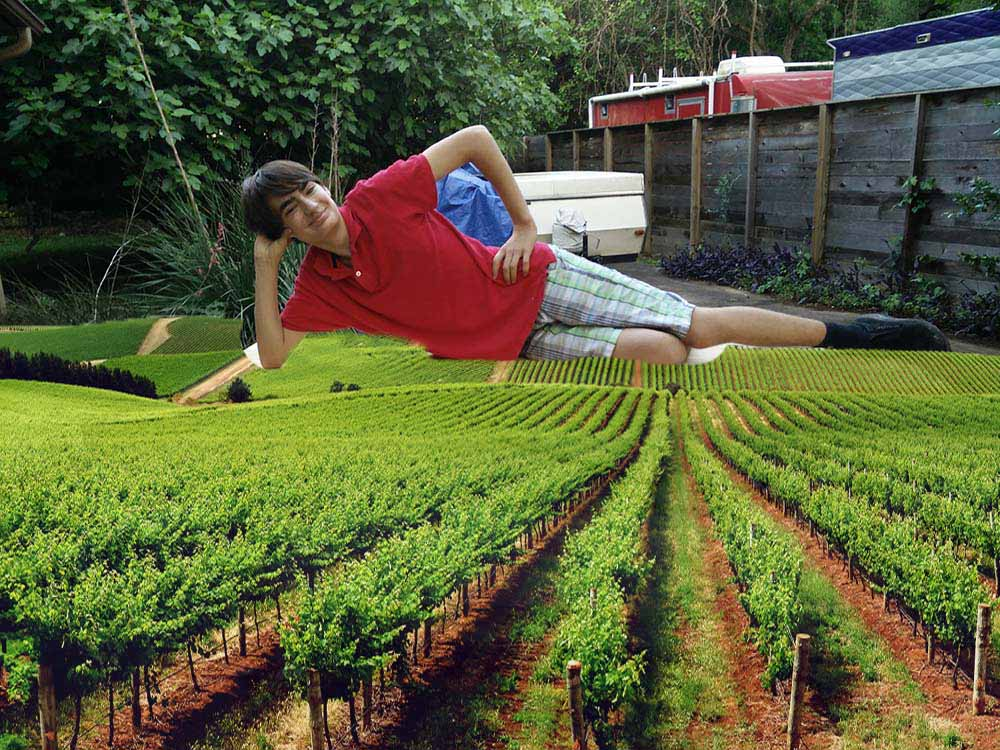
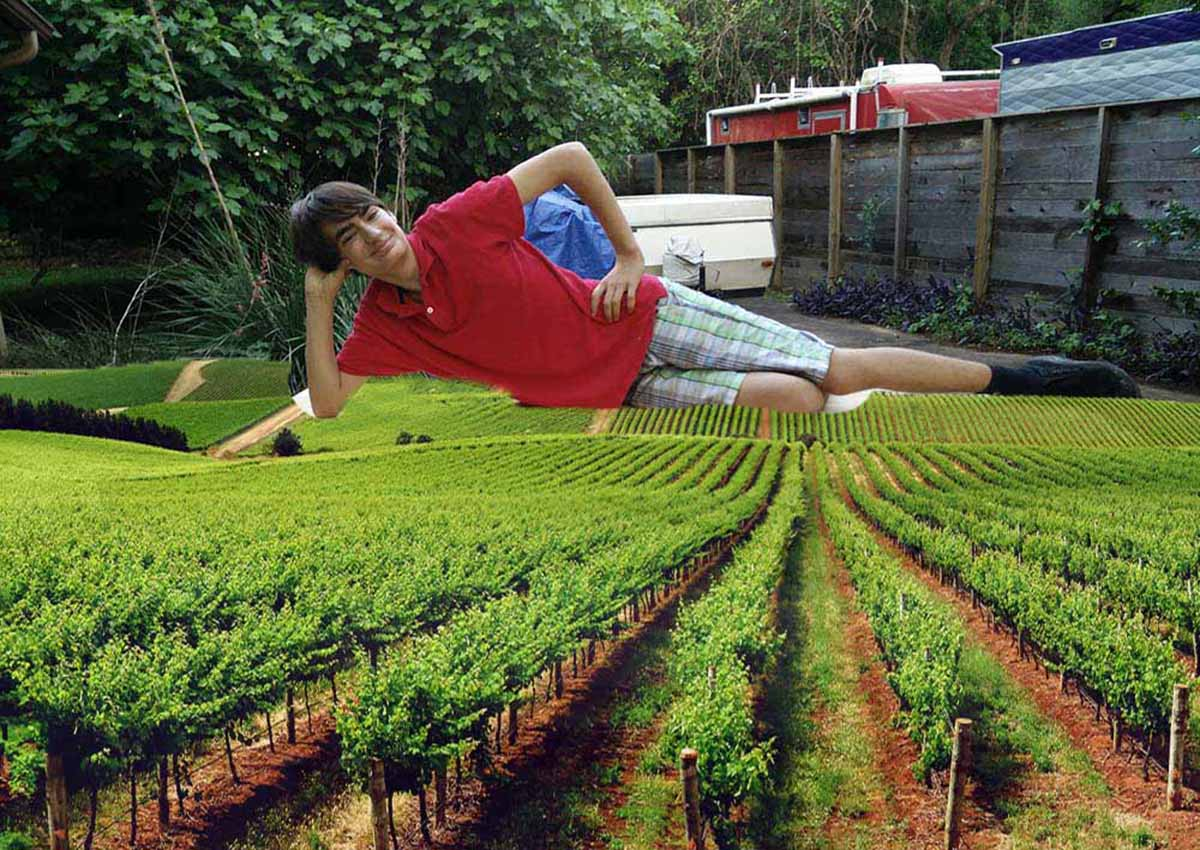
Structure Complete

diff --git a/index.html b/index.html
@@ -1,73 +1,69 @@
 <!DOCTYPE html>
 <html lang="en">
-<head>
-  <meta http-equiv="Content-Type" content="text/html; charset=UTF-8"/>
-  <meta name="viewport" content="width=device-width, initial-scale=1, maximum-scale=1.0, user-scalable=no"/>
-  <title>WW RoboWarriors | Home</title>
-  <link href="https://fonts.googleapis.com/icon?family=Material+Icons" rel="stylesheet">
-  <link href="css/style.css" type="text/css" rel="stylesheet" media="screen,projection"/>
-  <link href="css/scroll.css" type="text/css" rel="stylesheet" media="screen,projection"/>
-  <script src="https://code.jquery.com/jquery-2.1.1.min.js"></script>
-  <script src="js/init.js"></script>
- <link rel="stylesheet" href="https://cdnjs.cloudflare.com/ajax/libs/materialize/0.97.7/css/materialize.min.css">
- <script src="https://cdnjs.cloudflare.com/ajax/libs/materialize/0.97.7/js/materialize.min.js"></script>
-</head>
+  <head>
+    <meta http-equiv="Content-Type" content="text/html; charset=UTF-8"/>
+    <meta name="viewport" content="width=device-width, initial-scale=1, maximum-scale=1.0, user-scalable=no"/>
+    <title>WW RoboWarriors | Home</title>
+    <link href="https://fonts.googleapis.com/icon?family=Material+Icons" rel="stylesheet">
+    <link href="css/style.css" type="text/css" rel="stylesheet" media="screen,projection"/>
+    <link href="css/scroll.css" type="text/css" rel="stylesheet" media="screen,projection"/>
+    <script src="https://code.jquery.com/jquery-2.1.1.min.js"></script>
+    <script src="js/init.js"></script>
+    <link rel="stylesheet" href="https://cdnjs.cloudflare.com/ajax/libs/materialize/0.97.7/css/materialize.min.css">
+    <script src="https://cdnjs.cloudflare.com/ajax/libs/materialize/0.97.7/js/materialize.min.js"></script>
+  </head>
 <body>
 <!--NavBar Horizontal-->
 <div class="navbar-fixed">
   <nav class="orange darken-3" role="navigation">
     <div class="nav-wrapper container">
       <a id="logo-container" href="#" class="brand-logo white-text left">Westwood RoboWarriors</a>
-      <ul class="right hide-on-med-and-down">
-        <li><a href="#concept" class="white-text">The Concept</a></li>
-        <li><a href="#" class="white-text">The Task</a></li>
-        <li><a href="#concept" class="white-text">The Learning</a></li>
-      </ul>
-      <ul id="nav-mobile" class="side-nav">
-        <li><a href="#">Navbar Link</a></li>
-      </ul>
+        <ul class="right hide-on-med-and-down">
+          <li><a href="#concept" class="white-text">The Concept</a></li>
+          <li><a href="#" class="white-text">The Task</a></li>
+          <li><a href="#concept" class="white-text">The Learning</a></li>
+        </ul>
+        <ul id="nav-mobile" class="side-nav">
+          <li><a href="#">Navbar Link</a></li>
+        </ul>
       <a href="#" data-activates="nav-mobile" class="button-collapse"><i class="material-icons">menu</i></a>
     </div>
   </nav>
 </div>
-
 <!--HomeVIEW Parallax-->
 <div id="index-banner" class="parallax-container">
   <div class="section no-pad-bot">
     <div class="container">
-      <h1 class="header center white-text text-lighten-2 ">Westwood RoboWarriors</h1>
+      <h1 class="header center  white-text">Westwood RoboWarriors</h1>
       <div class="row center">
         <h5 class="header col s12 light">Put in Filler Text HERE!</h5>
       </div>
-    <div class="row center">
-      <a href="#projects" id="download-button" class="btn-large waves-effect waves-light cyan darken-3 smoothscroll">Explore</a></div>
+      <div class="row center">
+        <a href="#projects" id="download-button" class="btn-large waves-effect waves-light cyan darken-3 smoothscroll">Explore</a></div>
+      </div>
     </div>
-  </div>
-  <div class="parallax"><img src="images/head.png" alt=""></div>
+  <div class="parallax"><img src="images/main.jpg" alt=""></div>
 </div>
-
-
 <!--Farm1 Parallax-->
 <div class="row orange darken-3">
   <div class="col s12 orange darken-3">
     <h4 class="orange"></h4>
   </div>
 </div>
-
 <div class="parallax-container">
   <div class="section">
     <div class="container">
-      <h1 class="header center white-text">Who are we</h1>
+      <h1 class="header center white-text">Who We Are</h1>
       <div class="row">
-        <div class="card z-depth-3">
+        <div class="card z-depth-3 col s6 amber lighten-2">
           <div class="card-image waves-effect waves-light">
             <img class="activator" src="images/timmy.jpg">
           </div>
           <div class="card-content">
-            <span class="card-title activator black-text">From the Members<i class="material-icons right">more_vert</i></span>
+            <h4 class="white-text">Welcome to the Team<i class="material-icons right">more_vert</i></h4>
           </div>
-          <div class="card-reveal grey">
-            <span class="card-title white-text ">Here are what some of the members think<i class="material-icons right">close</i></span>
+          <div class="card-reveal amber lighten-2">
+            <span class="card-title white-text ">Our Values<i class="material-icons right">close</i></span>
               <p>
                 <ul class="left white-text">
                   <li><h3>"Lmao"</h3></li>
@@ -77,11 +73,11 @@
               </p>
             </div>
           </div>
-          <div class="card right">
+          <div class="card col s6 push-s1 z-depth-3  light-green darken-1">
             <div class="card-content white-text">
               <span class="card-title">Card Title</span>
               <p>Lorem ipsum dolor sit amet, consectetur adipisicing elit, sed do eiusmod tempor incididunt ut labore et dolore magna aliqua. Ut enim ad minim veniam, quis nostrud exercitation ullamco laboris nisi ut aliquip ex ea commodo consequat. Duis aute irure dolor in reprehenderit in voluptate velit esse cillum dolore eu fugiat nulla pariatur. Excepteur sint occaecat cupidatat non proident, sunt in culpa qui officia deserunt mollit anim id est laborum.
-              Excepteur sint occaecat cupidatat non proident, sunt in culpa qui </p>
+              Excepteur sint occaecat cupidatat non proident, sunt in culpa qui Lorem ipsum dolor sit amet, consectetur adipisicing elit, sed do eiusmod tempor consectetur helo</p>
             </div>
           </div>
         </div>
@@ -91,115 +87,61 @@
   </div>
   <div class="parallax"><img src="images/farm1.jpg" alt=""></div>
 </div>
-
-
-
-
-
-
-
-
-
-
-
-
-
-
-
-
-
-
-
-
-
-
-
-
-
 <!--The Concept-->
 <a name="concept"></a>
 <div class="parallax-container">
-  <div class="section no-pad-bot">
+  <div class="section">
     <div class="container">
-    <br><br>
-      <h1 class="header center white-text text-lighten-2 ">Our Concept</h1>
-    <br><br>
+      <h1 class="header center white-text">The Concept</h1>
       <div class="row center">
         <h5 class="header col s12 light">Lorem ipsum dolor sit amet, consectetur adipisicing elit, sed do eiusmod tempor incididunt ut labore et dolore magna aliqua. Ut enim ad minim veniam, quis nostrud exercitation ullamco laboris nisi ut aliquip ex ea commodo consequat. Duis aute irure dolor in reprehenderit in voluptate velit esse cillum dolore eu fugiat nulla pariatur. Excepteur sint occaecat cupidatat non proident, sunt in culpa qui officia deserunt mollit anim id est laborum.</h5>
+        <a href="#"></a></div>
       </div>
-    <div class="row center">
-      <a href="#projects" id="download-button" class="btn-large waves-effect waves-light cyan darken-3 smoothscroll">Explore</a></div>
     </div>
-  </div>
-    <div class="parallax"><img src="images/concept.jpg">
-    </div>
-  </div>
-
+  <div class="parallax"><img src="images/tractor.jpg" alt=""></div>
+</div>
 <div class="row">
-  <div class="col s12 center grey darken-2">
-    <h3><i class="mdi-content-send brown-text"></i></h3>
+  <div class="col s12 center teal darken-2">
     <hr color="white">
-    <h3 class="white-text">Enter Filler Text here</h3>
+    <h3 class="white-text" >From the view of the RoboWarriors</h3>
     <hr color="white">
-    <p class="center-align light white-text">
-      Lorem ipsum dolor sit amet, consectetur adipisicing elit, sed do eiusmod tempor incididunt ut labore et dolore magna
-      <table>
-        <tr>
-          <td>
-            <div class="card medium z-depth-3">
-              <div class="card-image waves-effect waves-block waves-light">
-                <img class="activator" src="images/timmy.jpg">
-              </div>
-              <div class="card-content">
-                <span class="card-title activator black-text">From the Members<i class="material-icons right">more_vert</i></span>
-              </div>
-              <div class="card-reveal grey ">
-                <span class="card-title white-text ">Here are what some of the members think<i class="material-icons right">close</i></span>
-                  <p>
-                    <ul class="left white-text">
-                      <li><h3>"Lmao"</h3></li>
-                      <li><h3>"Lmao"</h3></li>
-                      <li><h3>"Lmao"</h3></li>
-                    </ul>
-                  </p>
-              </div>
-            </div>
-          </td>
-          <td>
-            <div class="row">
-                <div class="card blue-grey darken-1 col z-depth-3">
-                  <div class="card-content white-text">
-                    <span class="card-title">Card Title</span>
-                    <p>Lorem ipsum dolor sit amet, consectetur adipisicing elit, sed do eiusmod tempor incididunt ut labore et dolore magna aliqua. Ut enim ad minim veniam, quis nostrud exercitation ullamco laboris nisi ut aliquip ex ea commodo consequat. Duis aute irure dolor in reprehenderit in voluptate velit esse cillum dolore eu fugiat nulla pariatur. Excepteur sint occaecat cupidatat non proident, sunt in culpa qui officia deserunt mollit anim id est laborum.</p>
-                  </div>
-                </div>
-            </div>
-          </td>
-          <td>
-            <div class="row">
-                <div class="card blue-grey darken-1 col z-depth-3">
-                  <div class="card-content white-text">
-                    <span class="card-title">Card Title</span>
-                    <p>Lorem ipsum dolor sit amet, consectetur adipisicing elit, sed do eiusmod tempor incididunt ut labore et dolore magna aliqua. Ut enim ad minim veniam, quis nostrud exercitation ullamco laboris nisi ut aliquip ex ea commodo consequat. Duis aute irure dolor in reprehenderit in voluptate velit esse cillum dolore eu fugiat nulla pariatur. Excepteur sint occaecat cupidatat non proident, sunt in culpa qui officia deserunt mollit anim id est laborum.</p>
-                  </div>
-                </div>
-            </div>
-          </td>
-        </tr>
-      </table
-    </p>
+    <div class="card col s4 z-depth-3">
+      <div class="card-image waves-effect waves-block waves-light">
+        <img class="activator" src="images/timmy.jpg">
+      </div>
+      <div class="card-content">
+        <span class="card-title activator black-text">From the Members<i class="material-icons right">more_vert</i></span>
+      </div>
+      <div class="card-reveal grey ">
+        <span class="card-title white-text ">Here are what some of the members think<i class="material-icons right">close</i></span>
+        <p>
+          <ul class="left white-text">
+            <li><h3>"Lmao"</h3></li>
+            <li><h3>"Lmao"</h3></li>
+            <li><h3>"Lmao"</h3></li>
+          </ul>
+        </p>
+      </div>
+    </div>
+    <div class="card blue-grey lighten-3  col s3 push-s1 z-depth-3">
+      <div class="card-content white-text">
+        <span class="card-title">Card Title</span>
+          <p>Lorem ipsum dolor sit amet, consectetur adipisicing elit, sed do eiusmod tempor incididunt ut labore et dolore magna aliqua. Ut enim ad minim veniam, quis nostrud exercitation ullamco laboris nisi ut aliquip ex ea commodo consequat. Duis aute irure dolor in reprehenderit in voluptate velit.</p>
+      </div>
+    </div>
+    <div class="card blue-grey lighten-3  col s3 push-s2 z-depth-3">
+      <div class="card-content white-text">
+        <span class="card-title">Card Title</span>
+          <p>Lorem ipsum dolor sit amet, consectetur adipisicing elit, sed do eiusmod tempor incididunt ut labore et dolore magna aliqua. Ut enim ad minim veniam, quis nostrud exercitation ullamco laboris nisi ut aliquip ex ea commodo consequat. Duis aute irure dolor in reprehenderit in voluptate velit.</p>
+      </div>
+    </div>
   </div>
 </div>
-
-
-
 <!--The Task-->
 <div class="parallax-container">
   <div class="section no-pad-bot">
     <div class="container">
-    <br><br>
       <h1 class="header center white-text text-lighten-2 ">The Task</h1>
-    <br><br>
       <div class="row center">
         <h5 class="header col s12 light">Lorem ipsum dolor sit amet, consectetur adipisicing elit, sed do eiusmod tempor incididunt ut labore et dolore magna aliqua. Ut enim ad minim veniam, quis nostrud exercitation ullamco laboris nisi ut aliquip ex ea commodo consequat. Duis aute irure dolor in reprehenderit in voluptate velit esse cillum dolore eu fugiat nulla pariatur. Excepteur sint occaecat cupidatat non proident, sunt in culpa qui officia deserunt mollit anim id est laborum.</h5>
       </div>
@@ -207,12 +149,10 @@
       <a href="#projects" id="download-button" class="btn-large waves-effect waves-light cyan darken-3 smoothscroll">Explore</a></div>
     </div>
   </div>
-    <div class="parallax"><img src="images/concept.jpg">
-    </div>
-  </div>
+  <div class="parallax"><img src="images/task.jpg"></div>
+</div>
 <div class="row brown">
   <div class="col s12 center">
-    <h3><i class="mdi-content-send brown-text"></i></h3>
     <h4 class="white-text">The Task</h4>
     <p class="left-align light white-text">Lorem ipsum dolor sit amet, consectetur adipiscing elit. Nullam scelerisque id nunc nec volutpat. Etiam pellentesque tristique arcu, non consequat magna fermentum ac. Cras ut ultricies eros. Maecenas eros justo, ullamcorper a sapien id, viverra ultrices eros. Morbi sem neque, posuere et pretium eget, bibendum sollicitudin lacus. Aliquam eleifend sollicitudin diam, eu mattis nisl maximus sed. Nulla imperdiet semper molestie. Morbi massa odio, condimentum sed ipsum ac, gravida ultrices erat. Nullam eget dignissim mauris, non tristique erat. Vestibulum ante ipsum primis in faucibus orci luctus et ultrices posuere cubilia Curae;Lorem ipsum dolor sit amet, consectetur adipiscing elit. Nullam scelerisque id nunc nec volutpat. Etiam pellentesque tristique arcu, non consequat magna fermentum ac. Cras ut ultricies eros. Maecenas eros justo, ullamcorper a sapien id, viverra ultrices eros. Morbi sem neque, posuere et pretium eget, bibendum sollicitudin lacus. Aliquam eleifend sollicitudin diam, eu mattis nisl maximus sed. Nulla imperdiet semper molestie. Morbi massa odio, condimentum sed ipsum ac, gravida ultrices erat. Nullam eget dignissim mauris, non tristique erat. Vestibulum ante ipsum primis in faucibus orci luctus et ultrices posuere cubilia Curae;</p>
   </div>
@@ -221,63 +161,32 @@
 <div class="parallax-container">
   <div class="section no-pad-bot">
     <div class="container">
-    <br><br>
       <h1 class="header center white-text text-lighten-2 ">The Learning</h1>
-    <br><br>
       <div class="row center">
         <h5 class="header col s12 light">Lorem ipsum dolor sit amet, consectetur adipisicing elit, sed do eiusmod tempor incididunt ut labore et dolore magna aliqua. Ut enim ad minim veniam, quis nostrud exercitation ullamco laboris nisi ut aliquip ex ea commodo consequat. Duis aute irure dolor in reprehenderit in voluptate velit esse cillum dolore eu fugiat nulla pariatur. Excepteur sint occaecat cupidatat non proident, sunt in culpa qui officia deserunt mollit anim id est laborum.</h5>
       </div>
-    <div class="row center">
-      <a href="#projects" id="download-button" class="btn-large waves-effect waves-light cyan darken-3 smoothscroll">Explore</a></div>
+      <div class="row center">
+        <a href="#projects" id="download-button" class="btn-large waves-effect waves-light cyan darken-3 smoothscroll">Explore</a></div>
+      </div>
+    </div>
+    <div class="parallax"><img src="images/learning.jpg"></div>
+  </div>
+  <div class="row">
+    <div class="col s12 center blue-grey darken-1">
+      <h4 class="white-text">The Learning</h4>
+        <p class="left-align light white-text">Lorem ipsum dolor sit amet, consectetur adipiscing elit. Nullam scelerisque id nunc nec volutpat. Etiam pellentesque tristique arcu, non consequat magna fermentum ac. Cras ut ultricies eros. Maecenas eros justo, ullamcorper a sapien id, viverra ultrices eros. Morbi sem neque, posuere et pretium eget, bibendum sollicitudin lacus. Aliquam eleifend sollicitudin diam, eu mattis nisl maximus sed. Nulla imperdiet semper molestie. Morbi massa odio, condimentum sed ipsum ac, gravida ultrices erat. Nullam eget dignissim mauris, non tristique erat. Vestibulum ante ipsum primis in faucibus orci luctus et ultrices posuere cubilia Curae;Lorem ipsum dolor sit amet, consectetur adipiscing elit. Nullam scelerisque id nunc nec volutpat. Etiam pellentesque tristique arcu, non consequat magna fermentum ac. Cras ut ultricies eros. Maecenas eros justo, ullamcorper a sapien id, viverra ultrices eros. Morbi sem neque, posuere et pretium eget, bibendum sollicitudin lacus. Aliquam eleifend sollicitudin diam, eu mattis nisl maximus sed. Nulla imperdiet semper molestie. Morbi massa odio, condimentum sed ipsum ac, gravida ultrices erat. Nullam eget dignissim mauris, non tristique erat. Vestibulum ante ipsum primis in faucibus orci luctus et ultrices posuere cubilia Curae;</p>
     </div>
   </div>
-    <div class="parallax"><img src="images/concept.jpg">
-    </div>
-  </div>
-<div class="row">
-  <div class="col s12 center">
-    <h3><i class="mdi-content-send brown-text"></i></h3>
-    <h4 class="blue-text">The Learning</h4>
-    <p class="left-align light blue-text">Lorem ipsum dolor sit amet, consectetur adipiscing elit. Nullam scelerisque id nunc nec volutpat. Etiam pellentesque tristique arcu, non consequat magna fermentum ac. Cras ut ultricies eros. Maecenas eros justo, ullamcorper a sapien id, viverra ultrices eros. Morbi sem neque, posuere et pretium eget, bibendum sollicitudin lacus. Aliquam eleifend sollicitudin diam, eu mattis nisl maximus sed. Nulla imperdiet semper molestie. Morbi massa odio, condimentum sed ipsum ac, gravida ultrices erat. Nullam eget dignissim mauris, non tristique erat. Vestibulum ante ipsum primis in faucibus orci luctus et ultrices posuere cubilia Curae;Lorem ipsum dolor sit amet, consectetur adipiscing elit. Nullam scelerisque id nunc nec volutpat. Etiam pellentesque tristique arcu, non consequat magna fermentum ac. Cras ut ultricies eros. Maecenas eros justo, ullamcorper a sapien id, viverra ultrices eros. Morbi sem neque, posuere et pretium eget, bibendum sollicitudin lacus. Aliquam eleifend sollicitudin diam, eu mattis nisl maximus sed. Nulla imperdiet semper molestie. Morbi massa odio, condimentum sed ipsum ac, gravida ultrices erat. Nullam eget dignissim mauris, non tristique erat. Vestibulum ante ipsum primis in faucibus orci luctus et ultrices posuere cubilia Curae;</p>
-  </div>
-</div>
 <!--Footer-->
 <footer class="page-footer teal">
   <div class="container">
     <div class="row">
-      <div class="col l6 s12">
-        <h5 class="white-text">Thanks!</h5>
-        <p class="grey-text text-lighten-4">This website is my portfolio to showcase
-        my independent and collabortive projects I've done over the last 4 years. Thanks for taking the time to visit this page. Provide me feedback <a href="#">here</a></div>
-      <div class="col l3 s12">
-        <h5 class="white-text">Settings</h5>
-        <ul>
-          <li><a class="white-text" href="#!">Link 1</a></li>
-          <li><a class="white-text" href="#!">Link 2</a></li>
-          <li><a class="white-text" href="#!">Link 3</a></li>
-          <li><a class="white-text" href="#!">Link 4</a></li>
-        </ul>
-      </div>
-      <div class="col l3 s12">
-        <h5 class="white-text">Connect</h5>
-          <ul>
-            <li><a class="white-text" href="#!">Link 1</a></li>
-            <li><a class="white-text" href="#!">Link 2</a></li>
-            <li><a class="white-text" href="#!">Link 3</a></li>
-            <li><a class="white-text" href="#!">Link 4</a></li>
-          </ul>
-      </div>
+        <h5 class="white-text">Thanks!</h5>Please put a link to a popout sitemap here</h5>
     </div>
-  </div>
-
-  </div>
 </footer>
-
-
   <!--  Scripts-->
   <script src="https://code.jquery.com/jquery-2.1.1.min.js"></script>
   <script src="js/materialize.js"></script>
   <script src="js/init.js"></script>
-
   </body>
 </html>

diff --git a/css/style.css b/css/style.css
@@ -58,3 +58,6 @@ footer.page-footer {
 .card{
   width: 400px;
 }
+.col.card{
+  padding: 0;
+}
